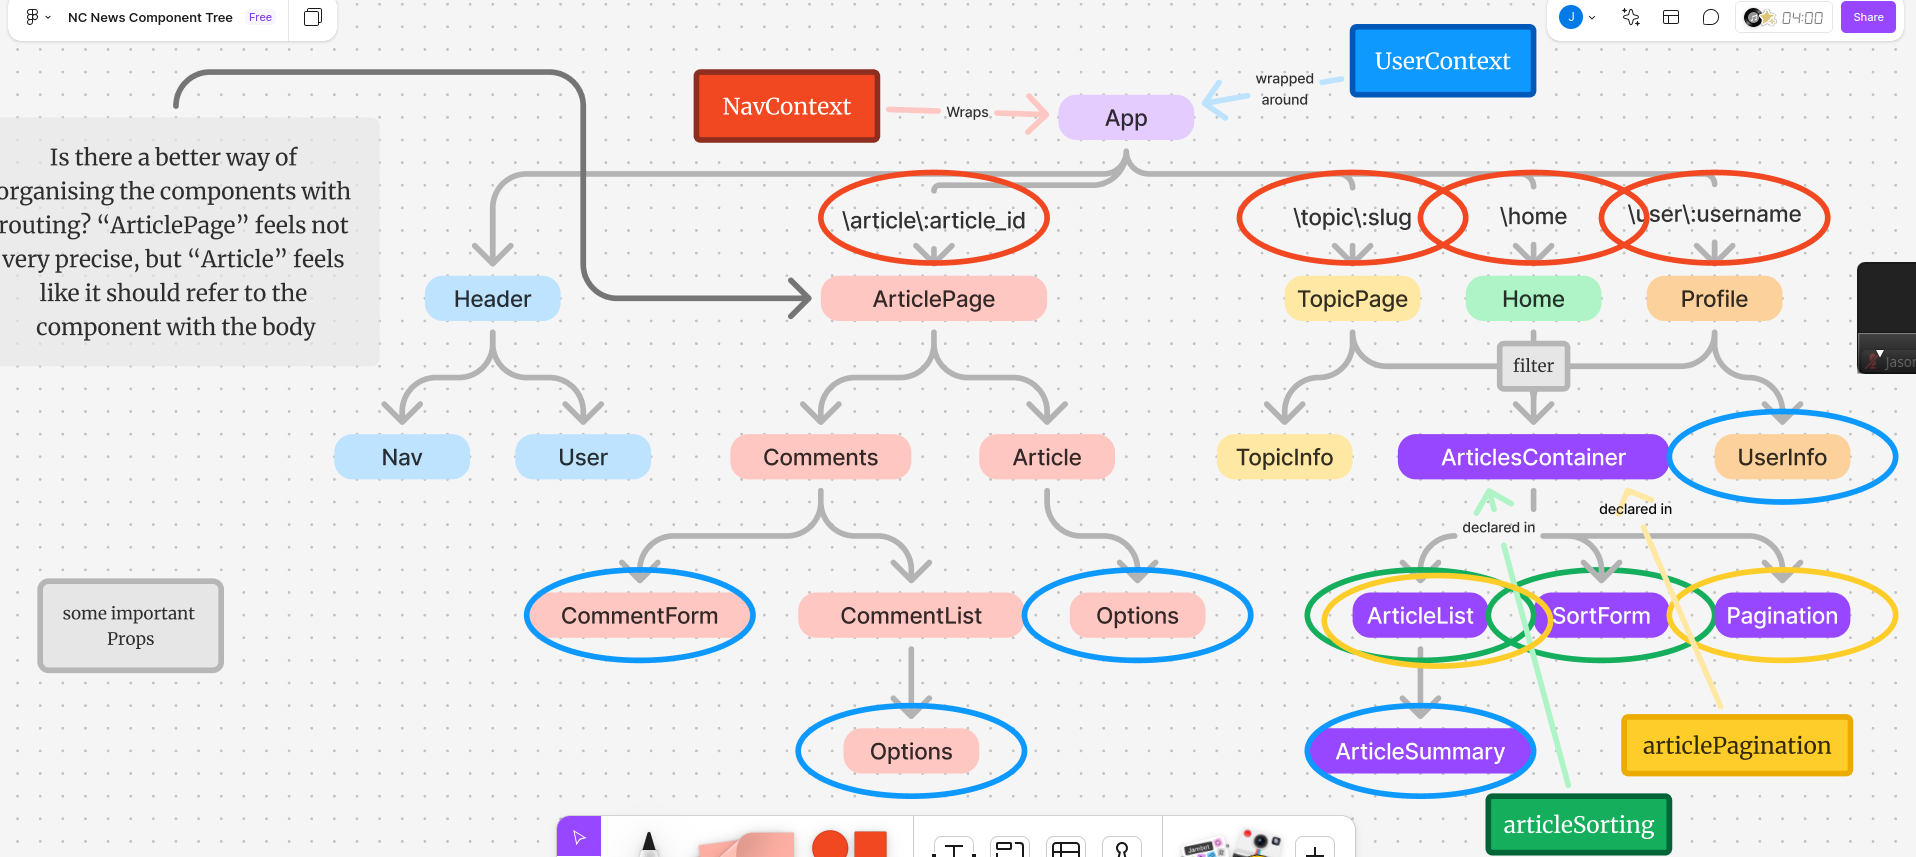
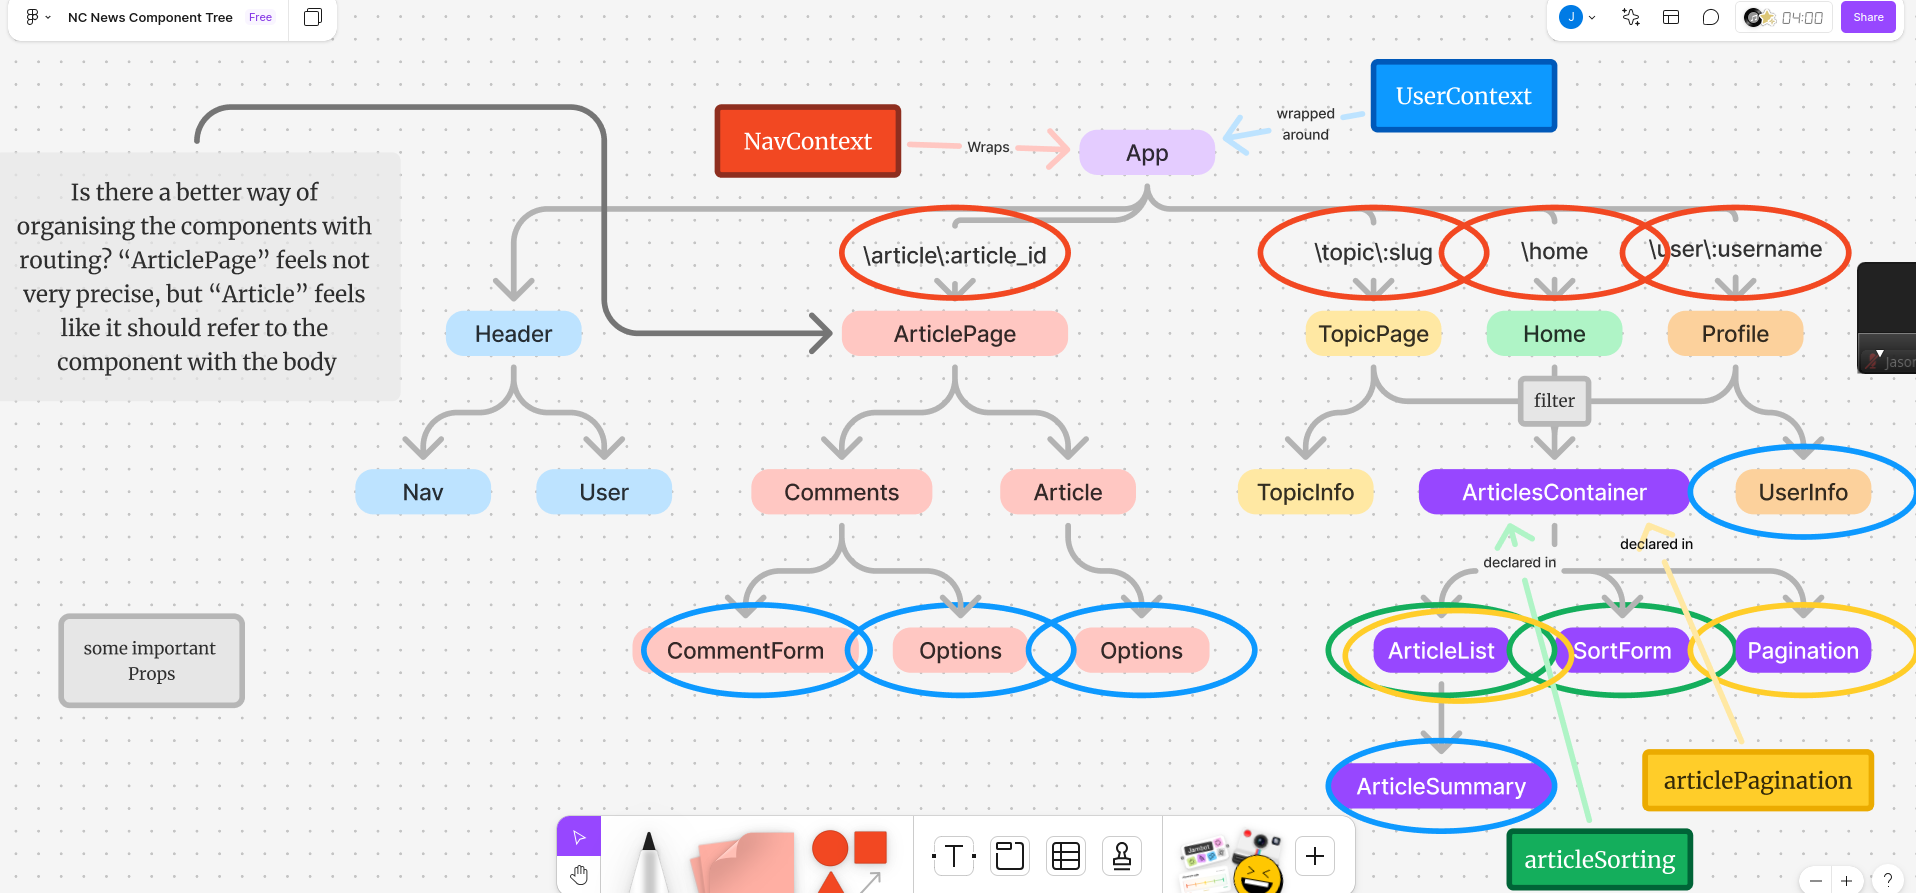
added viewing of comments

diff --git a/src/components/Comments.jsx b/src/components/Comments.jsx
@@ -1,0 +1,55 @@
+import { useEffect, useState } from "react";
+import { apiClient } from "../client";
+import { useParams } from "react-router-dom";
+import "../styles/Comments.css";
+import { convertDateLong } from "../utils";
+
+export function Comments({ articleNotFound }) {
+  if (articleNotFound) return <></>;
+  const params = useParams();
+  const article_id = Number(params.article_id);
+
+  const [comments, setComments] = useState([]);
+  const [isCommentsLoading, setIsCommentsLoading] = useState(true);
+
+  useEffect(() => {
+    setIsCommentsLoading(true);
+    apiClient.get(`/articles/${article_id}/comments`).then(({ data }) => {
+      setComments(data.comments);
+      setIsCommentsLoading(false);
+    });
+  }, []);
+
+  if (isCommentsLoading)
+    return (
+      <>
+        <em>Comments are loading...</em>
+      </>
+    );
+
+  return (
+    <>
+      <h3>
+        {comments.length === 0
+          ? "There are no comments yet... Be the first!"
+          : "Here are the comments"}
+      </h3>
+      <ul className="comment-list">
+        {comments.map((comment) => (
+          <li key={comment.comment_id} className="comment-item">
+            <h4 className="comment-author">{comment.author} says</h4>
+            <p className="comment-time">
+              {convertDateLong(comment.created_at)}
+            </p>
+            <div className="comment-votes">
+              <button className="up-vote comment-vote-button">&uarr;</button>
+              <span className="vote-count">{comment.votes}</span>
+              <button className="down-vote comment-vote-button">&darr;</button>
+            </div>
+            <p className="comment-body">{comment.body}</p>
+          </li>
+        ))}
+      </ul>
+    </>
+  );
+}

diff --git a/src/styles/Comments.css b/src/styles/Comments.css
@@ -1,0 +1,62 @@
+.comment-list {
+  list-style-type: none;
+  padding: 0;
+}
+
+.comment-item {
+  border-radius: 0 1rem 0 1rem;
+  background-color: var(--card-background);
+  color: var(--card-paragraph);
+  padding: 1rem;
+  margin: 1rem;
+  text-align: left;
+}
+
+.comment-item {
+  display: grid;
+  grid-template-areas:
+    "author votes time"
+    "body body body";
+  grid-template-columns: minmax(auto, 150px) minmax(100px, 150px) minmax(
+      150px,
+      2fr
+    );
+}
+
+.comment-author {
+  grid-area: author;
+  color: var(--card-heading);
+  margin: 0;
+  margin-right: 1rem;
+}
+
+.comment-time {
+  grid-area: time;
+  text-align: right;
+  margin: 0;
+}
+
+.comment-body {
+  grid-area: body;
+  text-indent: 2rem;
+}
+
+.comment-votes {
+  grid-area: votes;
+  text-align: center;
+}
+
+.comment-vote-button {
+  color: var(--highlight);
+  background-color: var(--background);
+  font-weight: 1000;
+  font-size: 1rem;
+  padding: 0.5rem;
+}
+
+.vote-count {
+  padding: 0.3rem;
+  margin: 0.3rem;
+  border: 1px solid color-mix(in srgb, var(--highlight) 50%, var(--temp2));
+  border-radius: 0.4rem;
+}

diff --git a/src/components/Article.jsx b/src/components/Article.jsx
@@ -1,11 +1,11 @@
 import { useEffect, useState } from "react";
-import { Link, useParams, useSearchParams } from "react-router-dom";
-import { apiClient } from "../client";
+import { Link, useParams } from "react-router-dom";
 import { convertDateLong } from "../utils";
 import "../styles/Article.css";
 import { ErrorMsg } from "./ErrorMsg";
+import { apiClient } from "../client";
 
-export function Article() {
+export function Article({ setArticleNotFound }) {
   const params = useParams();
   const article_id = Number(params.article_id);
 
@@ -19,11 +19,11 @@ export function Article() {
       .get(`/articles/${article_id}`)
       .then(({ data }) => {
         setArticle(data.article);
-        console.log(data);
         setIsArticleLoading(false);
+        setArticleNotFound(false);
       })
       .catch(({ response }) => {
-        console.log(response.data);
+        setArticleNotFound(true);
         setArticleError(response.data);
       });
   }, []);

diff --git a/src/components/ArticleList.jsx b/src/components/ArticleList.jsx
@@ -1,6 +1,6 @@
 import { useEffect, useState } from "react";
 import { ArticleSummary } from "./ArticleSummary";
-import { apiClient } from "../client";
+import { apiClient } from "../client.jsx";
 import "../styles/ArticleList.css";
 
 export function ArticleList({ listPagination, setTotalCount }) {
@@ -22,7 +22,7 @@ export function ArticleList({ listPagination, setTotalCount }) {
   if (isArticlesLoading) {
     return (
       <>
-        <h2 style={{ color: "red" }}>Articles are loading...</h2>
+        <h2>Articles are loading...</h2>
       </>
     );
   }

diff --git a/src/components/Pagination.jsx b/src/components/Pagination.jsx
@@ -83,10 +83,7 @@ export function Pagination({ setListPagination, listPagination, totalCount }) {
             onChange={handlePageUpdate}
             value={pageInput}
             onBlur={(event) => {
-              console.log("input:", pageInput, "and value:", listPagination.p);
-              console.log(Number(pageInput) !== listPagination.p);
               if (Number(pageInput) !== listPagination.p) {
-                console.log("submitting");
                 handleSubmit(event);
               }
             }}

diff --git a/src/components/ArticlePage.jsx b/src/components/ArticlePage.jsx
@@ -1,10 +1,13 @@
+import { useState } from "react";
 import { Article } from "./Article";
+import { Comments } from "./Comments";
 
 export function ArticlePage() {
+  const [articleNotFound, setArticleNotFound] = useState(null);
   return (
     <>
-      <div id="main"></div>
-      <Article />
+      <Article setArticleNotFound={setArticleNotFound} />
+      <Comments articleNotFound={articleNotFound} />
     </>
   );
 }
